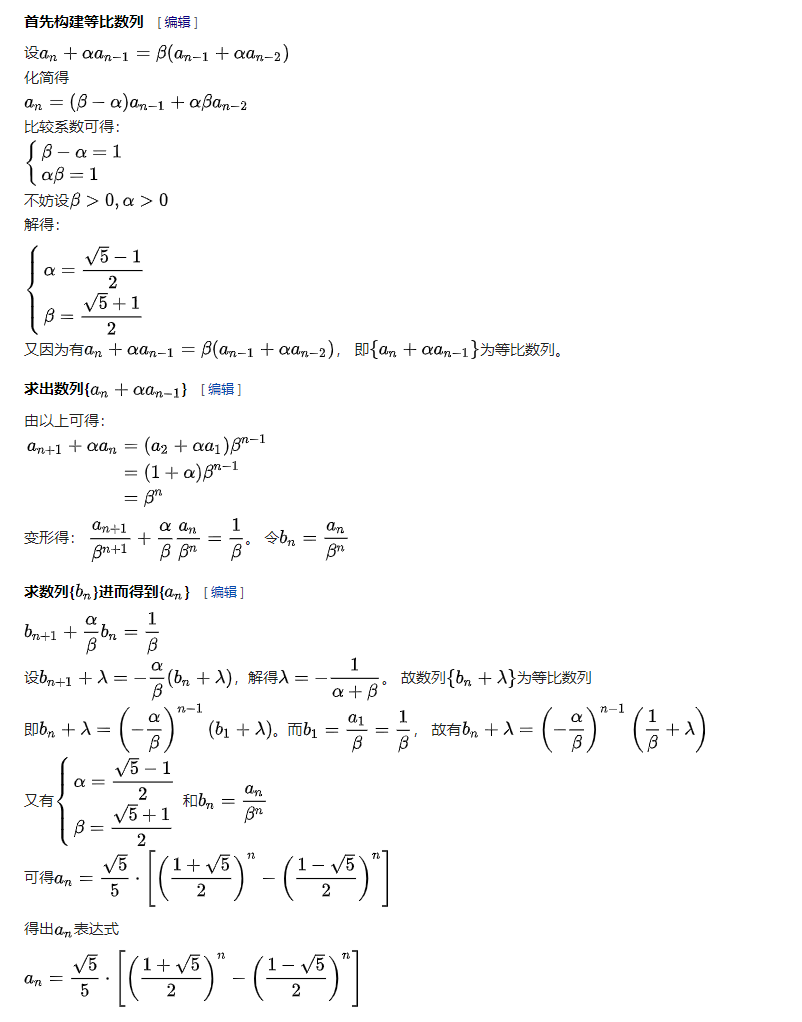
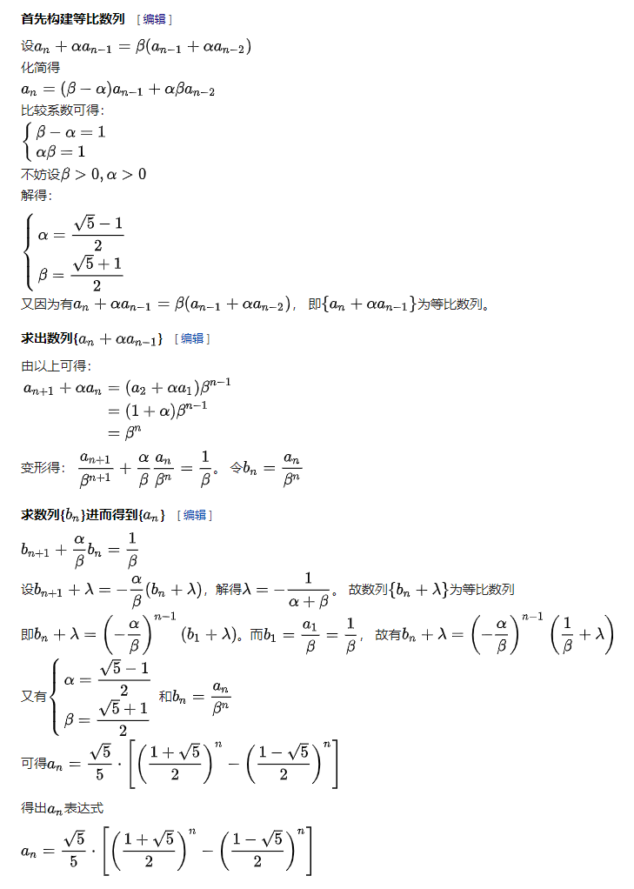
fix

Changed region(s): [[0.03, 0.0, 0.8091, 1.0], [0.7792, 0.6682, 0.989, 0.7593]]

diff --git a/source/_posts/interesting-fibonacci-sequence.md b/source/_posts/interesting-fibonacci-sequence.md
@@ -67,7 +67,7 @@ class Solution {
 
 对着表达式：
 
-![表达式](https://wikimedia.org/api/rest_v1/media/math/render/svg/bdd45861380dd60d182655318702aea70439dff8)
+![表达式](/blogimg/fib.svg)
 
 现在再看其源码便能看出端倪。
 ```java
